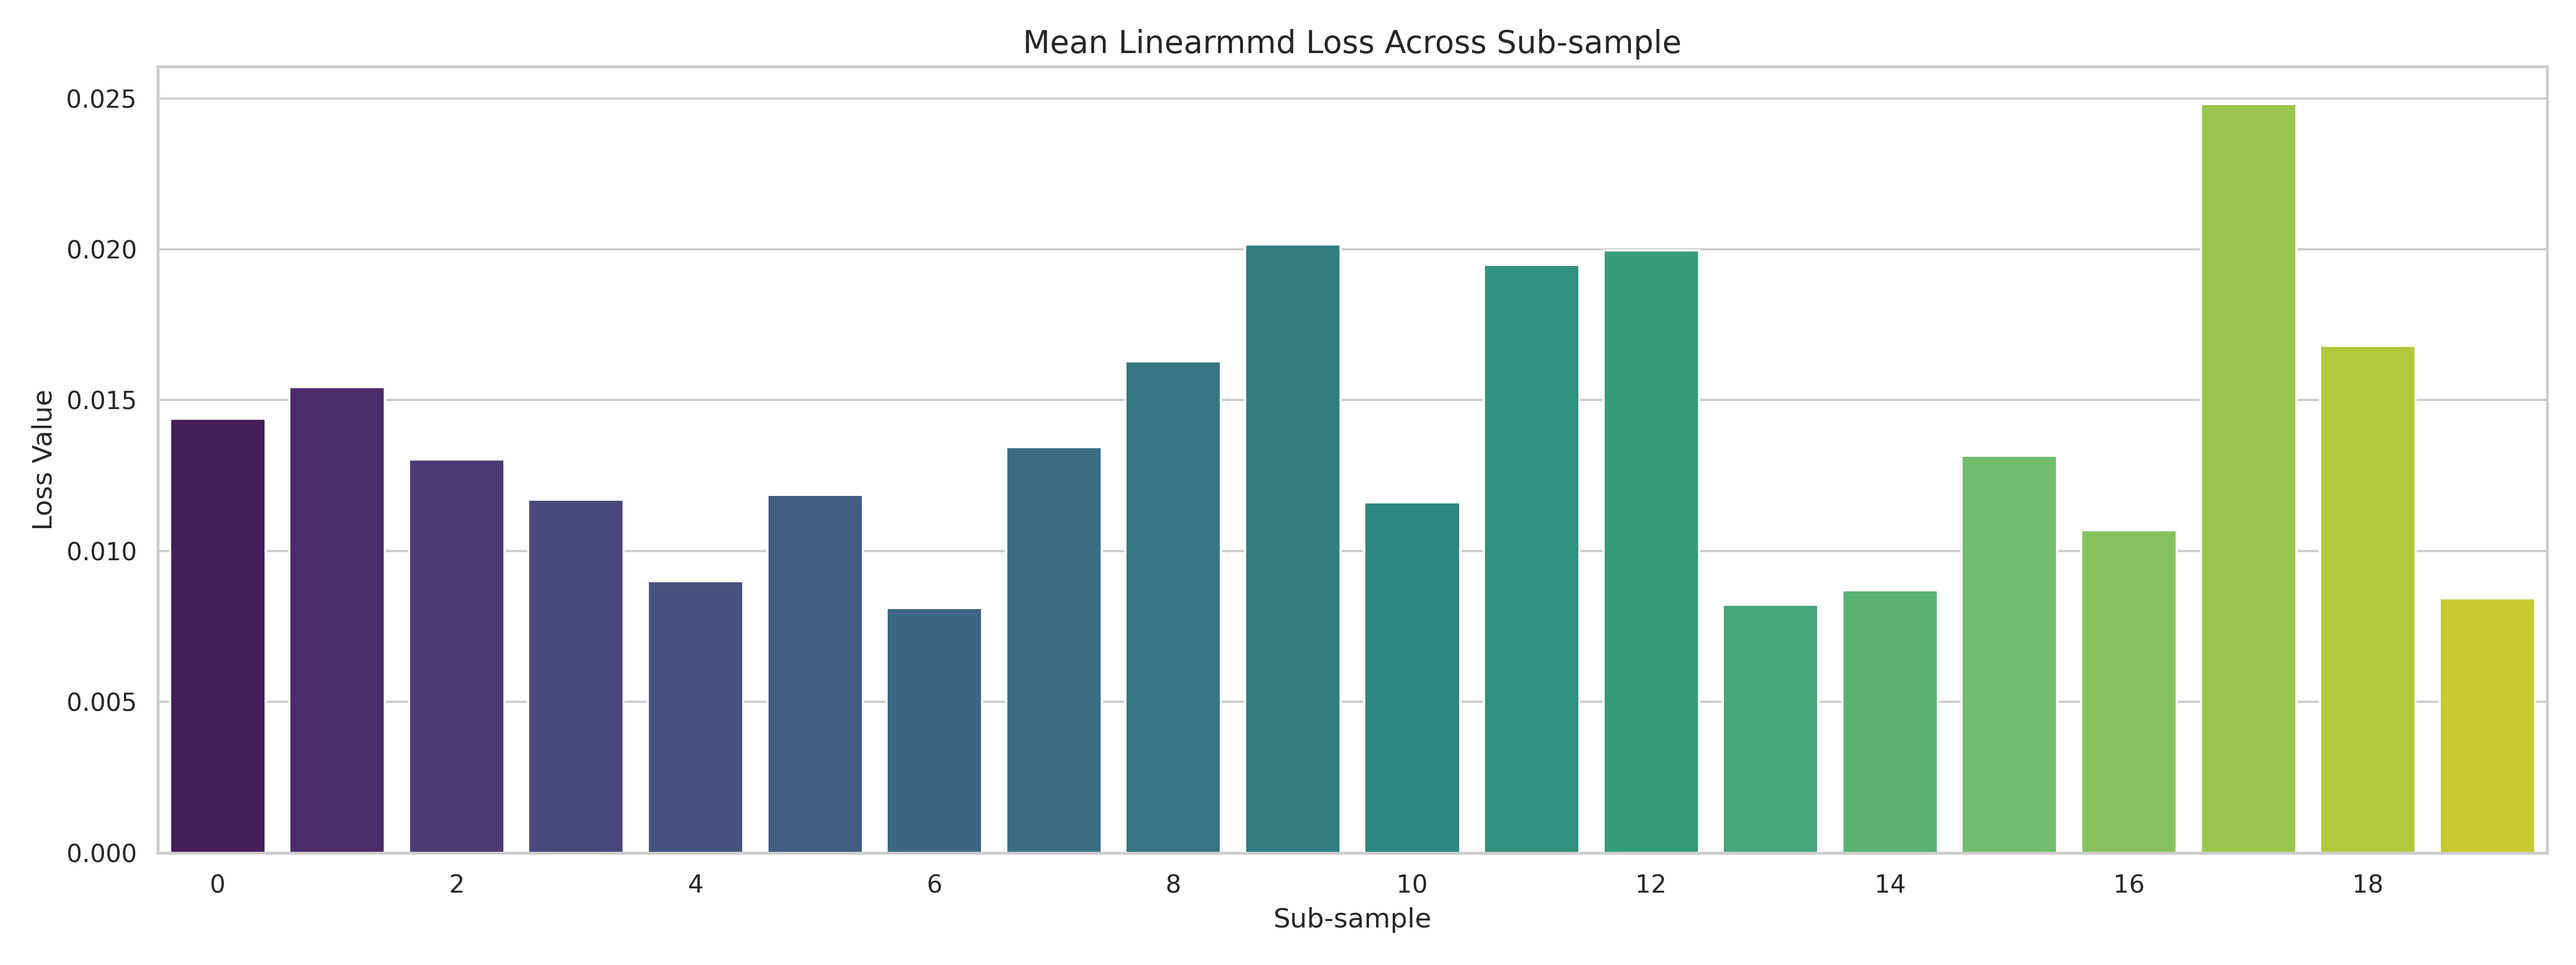
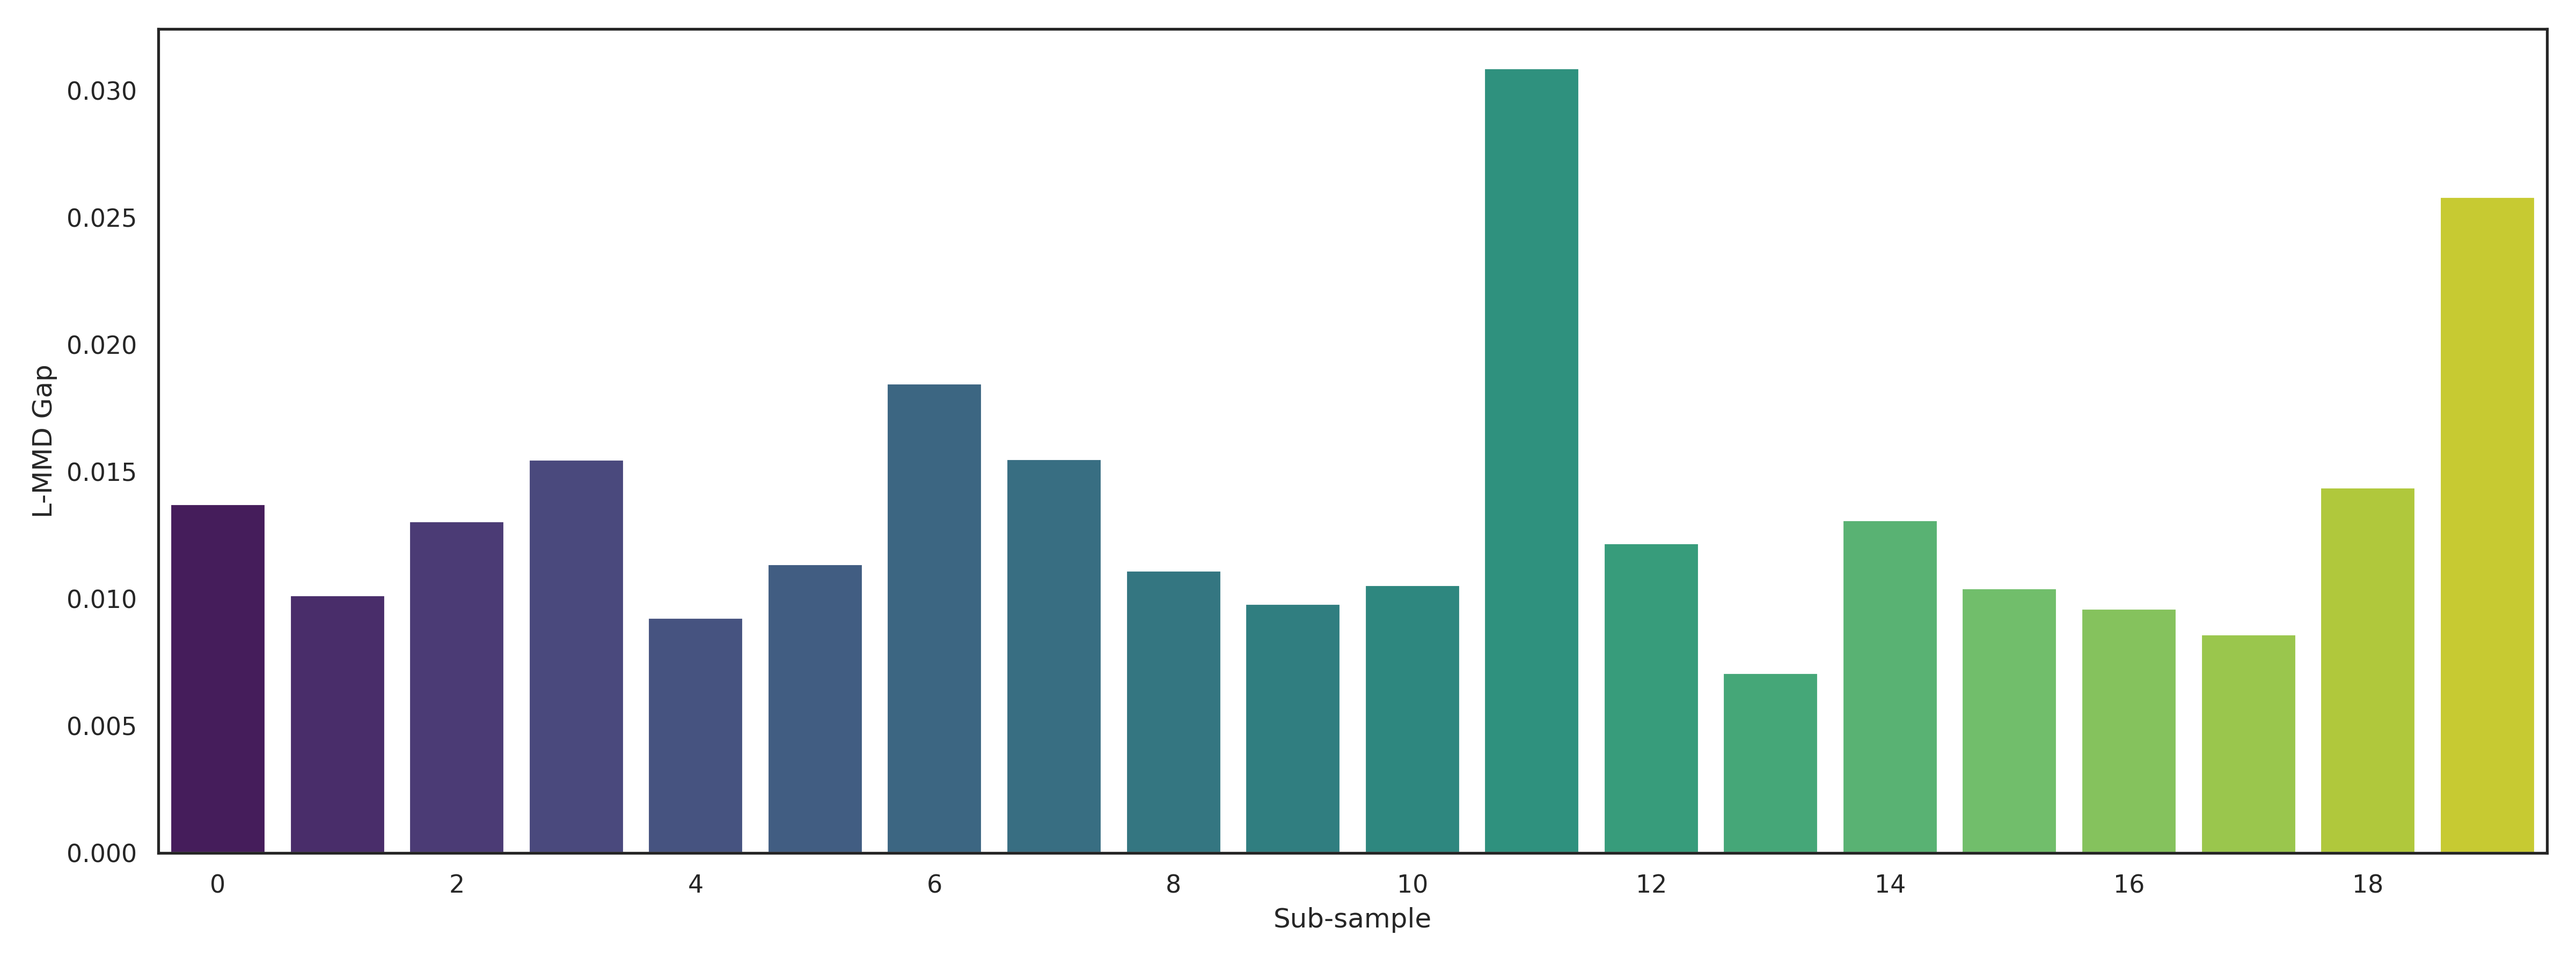
add

diff --git a/gap/gap-visualize.py b/gap/gap-visualize.py
@@ -112,8 +112,8 @@ def visualize_losses(json_file, output_dir="vis", sample_size=20):
         print(f"已保存 {loss_type} 图: {out_path}")
 
 # 示例调用：
-visualize_losses("/home/lenovo/data/liujiaji/yolov8/ultralytics-main-8.2.50/gap/c2f_gap.json", output_dir="vis/city_to_foggy")
+# visualize_losses("/home/lenovo/data/liujiaji/yolov8/ultralytics-main-8.2.50/gap/c2f_gap.json", output_dir="vis/city_to_foggy")
 # visualize_losses("/home/lenovo/data/liujiaji/yolov8/ultralytics-main-8.2.50/gap/s2c_gap.json", output_dir="vis/sim10k_to_city")
-# visualize_losses("/home/lenovo/data/liujiaji/yolov8/ultralytics-main-8.2.50/gap/v2c_gap.json", output_dir="vis/voc_to_clipart1k")
+visualize_losses("/home/lenovo/data/liujiaji/yolov8/ultralytics-main-8.2.50/gap/v2c_gap.json", output_dir="vis/voc_to_clipart1k")
 # # visualize_losses("/home/lenovo/data/liujiaji/yolov8/ultralytics-main-8.2.50/gap/pr2pu_gap.json", output_dir="vis/privatepower_to_publicpower")
 # visualize_losses("/home/lenovo/data/liujiaji/yolov8/ultralytics-main-8.2.50/gap/pu2pr_gap.json", output_dir="vis/publicpower_to_privatepower")
